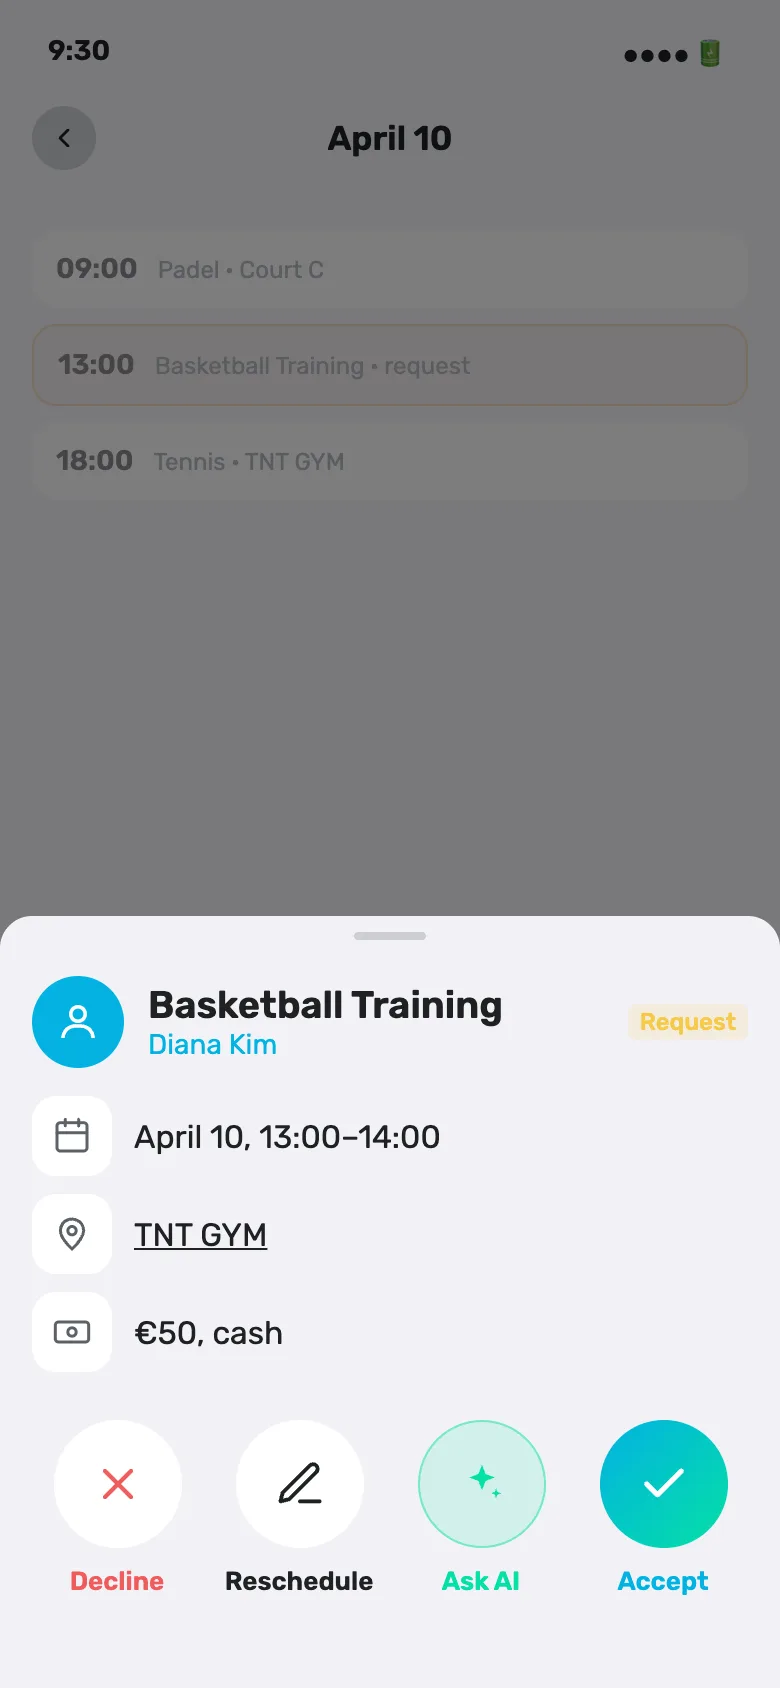
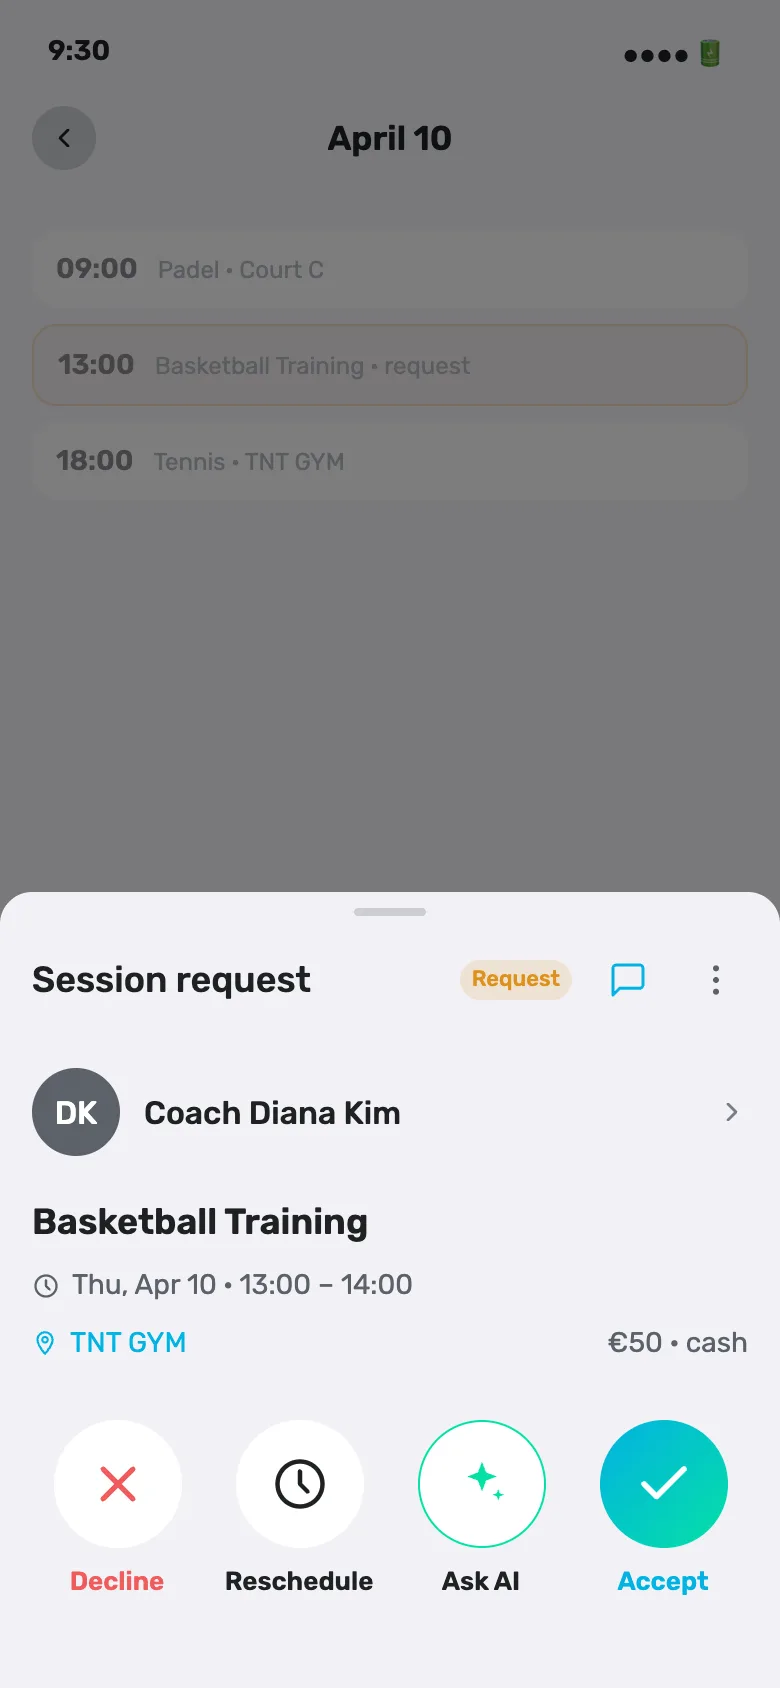
Assistant drawer: build on the real drawer, and ration the colour
Three corrections from review:

The drawer was drawn from the reference screenshot instead of from ours. It is
now the existing athlete drawer — status header with descriptor and pill, the
message icon that lives there because it is available in every state, and the …
menu carrying Edit details — with only the footer buttons replaced by circles.

Ask AI was a third fill colour in a four-action row. It is now the same neutral
plate as Reschedule, marked by a brand outline alone; the label is no longer
tinted either. One gradient and one red per row, nothing else.

Glyphs inside the circles were 26px in a 64px plate — now 30px.

And the consequence worth stating: offering the assistant means a drawer never
has fewer than three actions, so "wide buttons below three, circles above" has
no cases left. The event drawer simply uses circles; wide buttons keep
confirmation sheets, where there is one decision and a way out. The planned
state shows the three-action version.

diff --git a/prototypes/flows/shared/assistant-entry.html b/prototypes/flows/shared/assistant-entry.html
@@ -243,17 +243,16 @@
                background: none; border: none; cursor: pointer; font-family: var(--fit-font); padding: 4px 0; }
   .ai-circle i { width: 64px; height: 64px; border-radius: 50%; display: flex; align-items: center;
                  justify-content: center; background: var(--fit-surface-high); color: var(--fit-text-primary); }
-  .ai-circle i svg { width: 26px; height: 26px; }
+  .ai-circle i svg { width: 30px; height: 30px; }
   .ai-circle span { font-size: 13px; font-weight: 600; color: var(--fit-text-primary); }
   .ai-circle.danger i { color: var(--fit-red-400); }
   .ai-circle.danger span { color: var(--fit-red-400); }
   /* exactly one gradient per row — it is what "the expected answer" looks like */
   .ai-circle.primary i { background: var(--fit-brand-gradient); color: #fff; }
   .ai-circle.primary span { color: var(--fit-brand-primary); }
-  /* deliberation, not a decision: brand tint, never the gradient */
-  .ai-circle.ask i { background: rgba(5,224,166,0.10); border: 1px solid rgba(5,224,166,0.45); color: var(--fit-teal-500); }
-  .fit-light .ai-circle.ask i { background: rgba(5,224,166,0.14); }
-  .ai-circle.ask span { color: var(--fit-teal-500); }
+  /* deliberation, not a decision: the neutral plate, marked only by its outline.
+     A third fill colour in the row turns four actions into four warnings. */
+  .ai-circle.ask i { border: 1.5px solid var(--fit-teal-500); color: var(--fit-teal-500); }
 
   /* The context the assistant was handed — visible, never invisible priming */
   .ai-ctx { margin: 12px 16px 4px; border: 1px solid var(--fit-divider); border-radius: var(--fit-radius-lg); overflow: hidden; }
@@ -402,46 +401,77 @@
     </div>
   </div>
 
+  <!-- The real athlete drawer (athlete/calendar.html#ath-event-sheet), with the
+       footer buttons replaced by the circle row. Everything above it — status
+       header, message icon, the ... menu that carries Edit details — already
+       exists and stays exactly where it is. -->
   <div class="fit-sheet-overlay visible">
-    <div class="fit-sheet">
+    <div class="fit-sheet" style="padding:8px 16px 40px;">
       <div class="fit-sheet-handle"></div>
-      <div style="display:flex;align-items:center;gap:12px;padding:2px 0 14px;">
-        <div class="dm-av" style="width:46px;height:46px;background:var(--fit-brand-primary);"><svg viewBox="0 0 24 24" fill="none" stroke="#fff" stroke-width="1.8" style="width:24px;height:24px;"><circle cx="12" cy="8" r="3.6"/><path d="M4.5 20v-.6A6 6 0 0110.5 14h3a6 6 0 016 5.4v.6"/></svg></div>
-        <div style="flex:1;min-width:0;">
-          <div style="font-size:19px;font-weight:600;color:var(--fit-text-primary);">Basketball Training</div>
-          <div style="font-size:14px;color:var(--fit-brand-primary);">Diana Kim</div>
+
+      <div class="fit-sheet-status-header">
+        <div class="fit-sheet-descriptor" id="ai-ev-descriptor">Session request</div>
+        <span class="fit-cal-event-pill" id="ai-ev-pill" style="background:rgba(222,145,29,0.16);color:var(--fit-yellow-600);">Request</span>
+        <button class="fit-sheet-menu-btn" aria-label="Open chat" style="color:var(--fit-brand-primary);" onclick="window.location.href='./messages.html'">
+          <svg width="20" height="20" viewBox="0 0 24 24" fill="none" stroke="currentColor" stroke-width="1.8" stroke-linecap="round" stroke-linejoin="round"><path d="M21 15a2 2 0 01-2 2H7l-4 4V5a2 2 0 012-2h14a2 2 0 012 2z"/></svg>
+        </button>
+        <button class="fit-sheet-menu-btn" aria-label="More options" onclick="event.stopPropagation();document.getElementById('ai-ev-menu').classList.toggle('visible')">
+          <svg width="20" height="20" viewBox="0 0 24 24" fill="currentColor"><circle cx="12" cy="5" r="1.8"/><circle cx="12" cy="12" r="1.8"/><circle cx="12" cy="19" r="1.8"/></svg>
+        </button>
+      </div>
+
+      <div class="fit-context-menu" id="ai-ev-menu" style="top:44px;right:8px;">
+        <div class="fit-context-menu-item"><svg viewBox="0 0 24 24" fill="none" stroke="currentColor" stroke-width="1.8" stroke-linecap="round" stroke-linejoin="round"><path d="M11 4H4a2 2 0 00-2 2v14a2 2 0 002 2h14a2 2 0 002-2v-7"/><path d="M18.5 2.5a2.121 2.121 0 013 3L12 15l-4 1 1-4 9.5-9.5z"/></svg>Edit details</div>
+        <div class="fit-context-menu-item"><svg viewBox="0 0 24 24" fill="none" stroke="currentColor" stroke-width="1.8" stroke-linecap="round" stroke-linejoin="round"><path d="M4 12v8h16v-8M12 3v13M8 7l4-4 4 4"/></svg>Share</div>
+      </div>
+
+      <div style="display:flex;align-items:center;gap:12px;margin-bottom:22px;cursor:pointer;">
+        <div style="width:44px;height:44px;border-radius:50%;background:var(--fit-gray-600);display:flex;align-items:center;justify-content:center;font-size:16px;font-weight:500;color:var(--fit-white);flex-shrink:0;">DK</div>
+        <div style="flex:1;"><div style="font-size:16px;font-weight:500;color:var(--fit-text-primary);">Coach Diana Kim</div></div>
+        <svg width="16" height="16" viewBox="0 0 24 24" fill="none" stroke="var(--fit-text-tertiary)" stroke-width="2" stroke-linecap="round" stroke-linejoin="round" style="flex-shrink:0;"><path d="M9 18l6-6-6-6"/></svg>
+      </div>
+
+      <div style="font-size:18px;font-weight:600;color:var(--fit-text-primary);margin-bottom:12px;">Basketball Training</div>
+      <div style="display:flex;align-items:center;gap:6px;font-size:14px;color:var(--fit-text-secondary);margin-bottom:12px;">
+        <svg width="14" height="14" viewBox="0 0 24 24" fill="none" stroke="currentColor" stroke-width="2" stroke-linecap="round" stroke-linejoin="round"><circle cx="12" cy="12" r="9"/><path d="M12 7v5l3 3"/></svg>
+        <span>Thu, Apr 10 &middot; 13:00 &ndash; 14:00</span>
+      </div>
+      <div style="display:flex;justify-content:space-between;align-items:center;margin-bottom:22px;">
+        <div style="display:flex;align-items:center;gap:6px;font-size:14px;color:var(--fit-brand-primary);">
+          <svg width="13" height="13" viewBox="0 0 24 24" fill="none" stroke="currentColor" stroke-width="2" stroke-linecap="round" stroke-linejoin="round"><path d="M12 2C8.13 2 5 5.13 5 9c0 5.25 7 13 7 13s7-7.75 7-13c0-3.87-3.13-7-7-7z"/><circle cx="12" cy="9" r="2.5"/></svg>
+          <span>TNT GYM</span>
         </div>
-        <span class="fit-badge fit-badge-warning">Request</span>
+        <div style="font-size:14px;color:var(--fit-text-secondary);">&euro;50 &middot; cash</div>
       </div>
 
-      <div style="display:flex;flex-direction:column;gap:9px;padding-bottom:16px;">
-        <div style="display:flex;align-items:center;gap:11px;"><span class="ai-ctx-ic"><svg viewBox="0 0 24 24" fill="none" stroke="currentColor" stroke-width="1.8" stroke-linecap="round"><rect x="3" y="4" width="18" height="17" rx="2"/><path d="M16 2v4M8 2v4M3 10h18"/></svg></span><span style="font-size:16px;color:var(--fit-text-primary);">April 10, 13:00&ndash;14:00</span></div>
-        <div style="display:flex;align-items:center;gap:11px;"><span class="ai-ctx-ic"><svg viewBox="0 0 24 24" fill="none" stroke="currentColor" stroke-width="1.8" stroke-linecap="round"><path d="M12 21s7-6.3 7-11a7 7 0 10-14 0c0 4.7 7 11 7 11z"/><circle cx="12" cy="10" r="2.5"/></svg></span><span style="font-size:16px;color:var(--fit-text-primary);text-decoration:underline;">TNT GYM</span></div>
-        <div style="display:flex;align-items:center;gap:11px;"><span class="ai-ctx-ic"><svg viewBox="0 0 24 24" fill="none" stroke="currentColor" stroke-width="1.8" stroke-linecap="round"><rect x="2" y="6" width="20" height="12" rx="2"/><circle cx="12" cy="12" r="2.5"/></svg></span><span style="font-size:16px;color:var(--fit-text-primary);">&euro;50, cash</span></div>
-      </div>
-
-      <!-- 4 peer actions → circles. One gradient (the expected answer), one red
-           (the destructive one, farthest from the thumb), the assistant tinted. -->
-      <div class="ai-circles">
-        <button class="ai-circle danger" data-a11y-id="request.decline">
+      <!-- REQUEST — four actions -->
+      <div class="ai-circles" id="ai-row-request">
+        <button class="ai-circle danger" data-a11y-id="athlete.calendar.event.decline">
           <i><svg viewBox="0 0 24 24" fill="none" stroke="currentColor" stroke-width="2" stroke-linecap="round"><path d="M18 6L6 18M6 6l12 12"/></svg></i><span>Decline</span>
         </button>
-        <button class="ai-circle" data-a11y-id="request.reschedule">
-          <i><svg viewBox="0 0 24 24" fill="none" stroke="currentColor" stroke-width="1.8" stroke-linecap="round" stroke-linejoin="round"><path d="M12 20h9"/><path d="M16.5 3.5a2.1 2.1 0 013 3L7 19l-4 1 1-4z"/></svg></i><span>Reschedule</span>
+        <button class="ai-circle" data-a11y-id="athlete.calendar.event.reschedule">
+          <i><svg viewBox="0 0 24 24" fill="none" stroke="currentColor" stroke-width="1.8" stroke-linecap="round" stroke-linejoin="round"><circle cx="12" cy="12" r="9"/><path d="M12 7v5l3 3"/></svg></i><span>Reschedule</span>
         </button>
-        <button class="ai-circle ask" onclick="go('s-ai-context',null)" data-a11y-id="request.ask-assistant">
+        <button class="ai-circle ask" onclick="go('s-ai-context',null)" data-a11y-id="athlete.calendar.event.ask-assistant">
           <i><svg viewBox="0 0 24 24" fill="currentColor"><path d="M12 3l1.6 4.4L18 9l-4.4 1.6L12 15l-1.6-4.4L6 9l4.4-1.6z" /><path d="M18.5 14l.6 1.7 1.7.6-1.7.6-.6 1.7-.6-1.7-1.7-.6 1.7-.6z"/></svg></i><span>Ask AI</span>
         </button>
-        <button class="ai-circle primary" data-a11y-id="request.accept">
+        <button class="ai-circle primary" data-a11y-id="athlete.calendar.event.accept">
           <i><svg viewBox="0 0 24 24" fill="none" stroke="currentColor" stroke-width="2.4" stroke-linecap="round" stroke-linejoin="round"><polyline points="20 6 9 17 4 12"/></svg></i><span>Accept</span>
         </button>
       </div>
 
-      <!-- Two actions → the wide buttons we already have. Circles would be a
-           costume: a row of two big dots reads as "pick a side", not "confirm". -->
-      <div id="ai-planned-actions" style="display:none;gap:10px;padding-top:2px;">
-        <button style="flex:1;height:50px;border:none;border-radius:99px;background:var(--fit-surface-high);color:var(--fit-text-primary);font-family:var(--fit-font);font-size:16px;font-weight:500;cursor:pointer;">Reschedule</button>
-        <button class="fit-btn fit-btn-destructive" style="flex:1;height:50px;font-size:16px;">Cancel</button>
+      <!-- PLANNED — the same row, three actions. Ask AI is always there, so a
+           drawer never drops below three: circles are simply what a drawer uses. -->
+      <div class="ai-circles" id="ai-row-planned" style="display:none;">
+        <button class="ai-circle danger">
+          <i><svg viewBox="0 0 24 24" fill="none" stroke="currentColor" stroke-width="2" stroke-linecap="round"><path d="M18 6L6 18M6 6l12 12"/></svg></i><span>Cancel</span>
+        </button>
+        <button class="ai-circle">
+          <i><svg viewBox="0 0 24 24" fill="none" stroke="currentColor" stroke-width="1.8" stroke-linecap="round" stroke-linejoin="round"><circle cx="12" cy="12" r="9"/><path d="M12 7v5l3 3"/></svg></i><span>Reschedule</span>
+        </button>
+        <button class="ai-circle ask" onclick="go('s-ai-context',null)">
+          <i><svg viewBox="0 0 24 24" fill="currentColor"><path d="M12 3l1.6 4.4L18 9l-4.4 1.6L12 15l-1.6-4.4L6 9l4.4-1.6z" /><path d="M18.5 14l.6 1.7 1.7.6-1.7.6-.6 1.7-.6-1.7-1.7-.6 1.7-.6z"/></svg></i><span>Ask AI</span>
+        </button>
       </div>
     </div>
   </div>
@@ -565,10 +595,11 @@
     <p><strong>Open:</strong> one eternal assistant thread (drawn here), or one thread per context? Per-context threads make it easy to return to &ldquo;that Tuesday question&rdquo; but turn the list into a machine&rsquo;s scratchpad.</p>
   </div>
 
-  <div class="ann" id="ann-s-request-drawer"><span class="ann-role athlete">Athlete</span><h3>Request drawer &mdash; circle actions</h3>
-    <p>Four peer actions do not fit as four wide buttons, and stacking them buries the decision. Circles with labels fit, and the row still carries hierarchy: <strong>exactly one gradient</strong> (Accept, the expected answer, under the thumb), <strong>one red</strong> (Decline, farthest from it), the rest neutral.</p>
-    <p><strong>The rule this proposes:</strong> 1&ndash;2 actions stay wide buttons (a Planned event keeps <em>Reschedule / Cancel</em> &mdash; see the state); <strong>3&ndash;5 become circles</strong>; more than that and something belongs in &hellip;</p>
-    <p><strong>Ask AI is not a fifth decision.</strong> Accept / Decline / Reschedule are answers; the assistant is for when you do not have one. Hence the tint instead of the gradient &mdash; deliberation should not look like the recommended action.</p>
+  <div class="ann" id="ann-s-request-drawer"><span class="ann-role athlete">Athlete</span><h3>Event drawer &mdash; circle actions</h3>
+    <p>This is the <strong>existing</strong> drawer (<code>athlete/calendar.html#ath-event-sheet</code>) with one change: the footer buttons become a circle row. Everything above stays &mdash; status header, the Request pill, the <strong>message icon</strong> (available in every state, that is why it lives up there) and <strong>&hellip;</strong> with Edit details.</p>
+    <p><strong>Adding Ask AI settles the pattern.</strong> If the assistant is always offered, a drawer never has fewer than three actions &mdash; so &ldquo;wide buttons below three, circles above&rdquo; has no cases left. Simpler and truer: <strong>the event drawer always uses circles</strong>. Wide buttons keep the job they are actually good at &mdash; confirmation sheets, where there is one decision and a way out.</p>
+    <p><strong>Colour is the hierarchy, so it is rationed.</strong> Exactly one gradient (the expected answer, under the thumb), exactly one red (destructive, farthest from it), everything else the same neutral plate. Ask AI is that neutral plate with a brand <em>outline</em> &mdash; a third fill would turn four actions into four warnings, and asking is not a decision anyway.</p>
+    <p><strong>Not resolved:</strong> the reference had both <em>Replan</em> and <em>Schedule</em>. Our vocabulary has one &mdash; <em>Reschedule</em> &mdash; and two calendar-ish actions side by side read as the same thing twice, so only one is drawn.</p>
   </div>
 
   <div class="ann" id="ann-s-ai-context"><span class="ann-role athlete">Athlete</span><h3>Assistant with context</h3>
@@ -632,11 +663,13 @@ function setViewer(role, btn) {
 <script>
 // The drawer swaps its action row by event kind — the point of the state.
 function aiPlanned(on) {
-  var sheet = document.querySelector('#s-request-drawer .fit-sheet');
-  sheet.querySelector('.ai-circles').style.display = on ? 'none' : 'flex';
-  sheet.querySelector('#ai-planned-actions').style.display = on ? 'flex' : 'none';
-  sheet.querySelector('.fit-badge').textContent = on ? 'Planned' : 'Request';
-  sheet.querySelector('.fit-badge').className = on ? 'fit-badge fit-badge-success' : 'fit-badge fit-badge-warning';
+  document.getElementById('ai-row-request').style.display = on ? 'none' : 'flex';
+  document.getElementById('ai-row-planned').style.display = on ? 'flex' : 'none';
+  document.getElementById('ai-ev-descriptor').textContent = on ? 'Confirmed session' : 'Session request';
+  var pill = document.getElementById('ai-ev-pill');
+  pill.textContent = on ? 'Planned' : 'Request';
+  pill.style.background = on ? 'rgba(5,224,166,0.16)' : 'rgba(222,145,29,0.16)';
+  pill.style.color = on ? 'var(--fit-teal-500)' : 'var(--fit-yellow-600)';
 }
 function aiAct() {
   var el = document.getElementById('ai-result');

diff --git a/prototypes/board/board-data.js b/prototypes/board/board-data.js
@@ -1207,6 +1207,11 @@ window.FIT_BOARD = {
           "order": 0,
           "inFrom": [
             {
+              "file": "flows/shared/assistant-entry.html",
+              "label": "Assistant entry points (WIP)",
+              "id": "s-request-drawer"
+            },
+            {
               "file": "flows/coach/dashboard.html",
               "label": "Coach Dashboard",
               "id": "s-dashboard"
@@ -1509,7 +1514,7 @@ window.FIT_BOARD = {
       "screens": [
         {
           "id": "s-chats",
-          "hash": "2cf8a40bd3ae",
+          "hash": "d589c2d745cc",
           "title": "Chats (assistant pinned)",
           "inApp": "Chats",
           "status": "proposal",
@@ -1532,14 +1537,16 @@ window.FIT_BOARD = {
         },
         {
           "id": "s-request-drawer",
-          "hash": "717c7add3c85",
+          "hash": "5ac2652e25ea",
           "title": "Drawer · request (4 actions)",
           "inApp": "April 10",
           "status": "proposal",
           "theme": "light",
           "entry": false,
-          "note": "Four peer actions do not fit as four wide buttons, and stacking them buries the decision. Circles with labels fit, and the row still carries hierarchy: exactly one gradient (Accept, the expected answer, under the thumb),",
-          "external": [],
+          "note": "This is the existing drawer (athlete/calendar.html#ath-event-sheet) with one change: the footer buttons become a circle row. Everything above stays — status header, the Request pill, the message icon (available in every ",
+          "external": [
+            "./messages.html"
+          ],
           "shots": [
             {
               "file": "shared-assistant-entry__s-request-drawer.webp",
@@ -1555,7 +1562,7 @@ window.FIT_BOARD = {
         },
         {
           "id": "s-ai-context",
-          "hash": "cb08c4e0206c",
+          "hash": "15165e113417",
           "title": "Assistant acted",
           "inApp": "",
           "status": "proposal",
@@ -1580,7 +1587,7 @@ window.FIT_BOARD = {
         },
         {
           "id": "s-ai-entry-client",
-          "hash": "b1365fc118a6",
+          "hash": "3d029c8bbf15",
           "title": "From a client card",
           "inApp": "Anna Kowalski",
           "status": "proposal",
